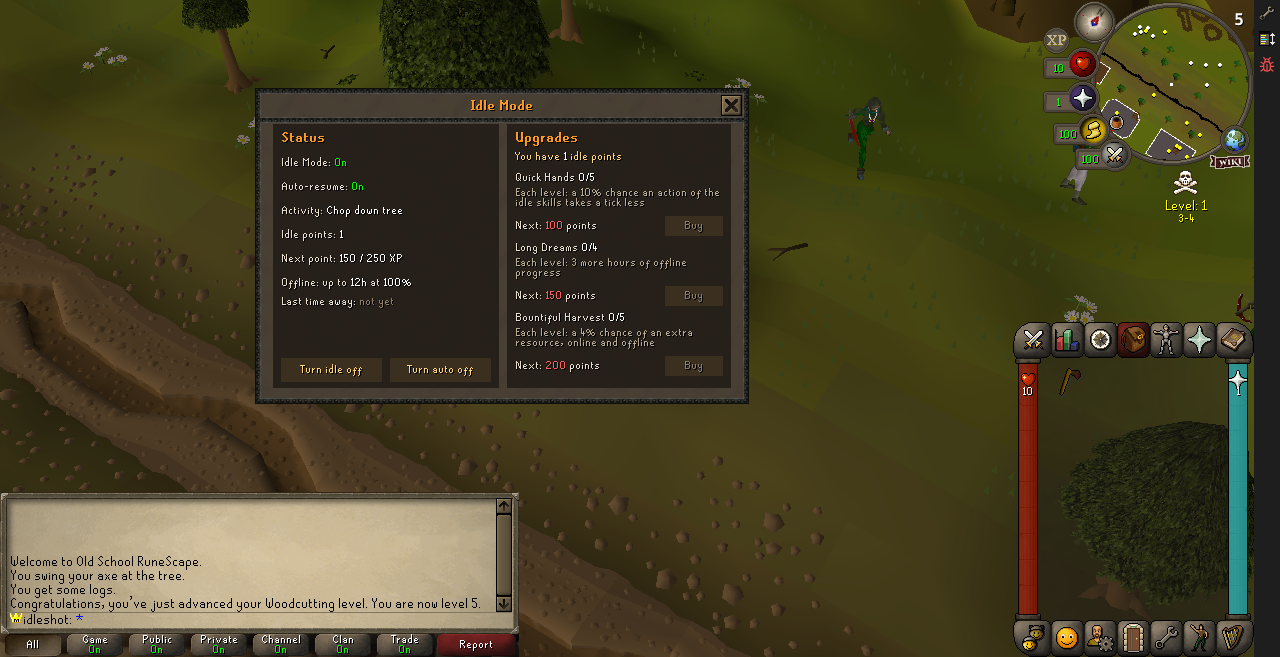
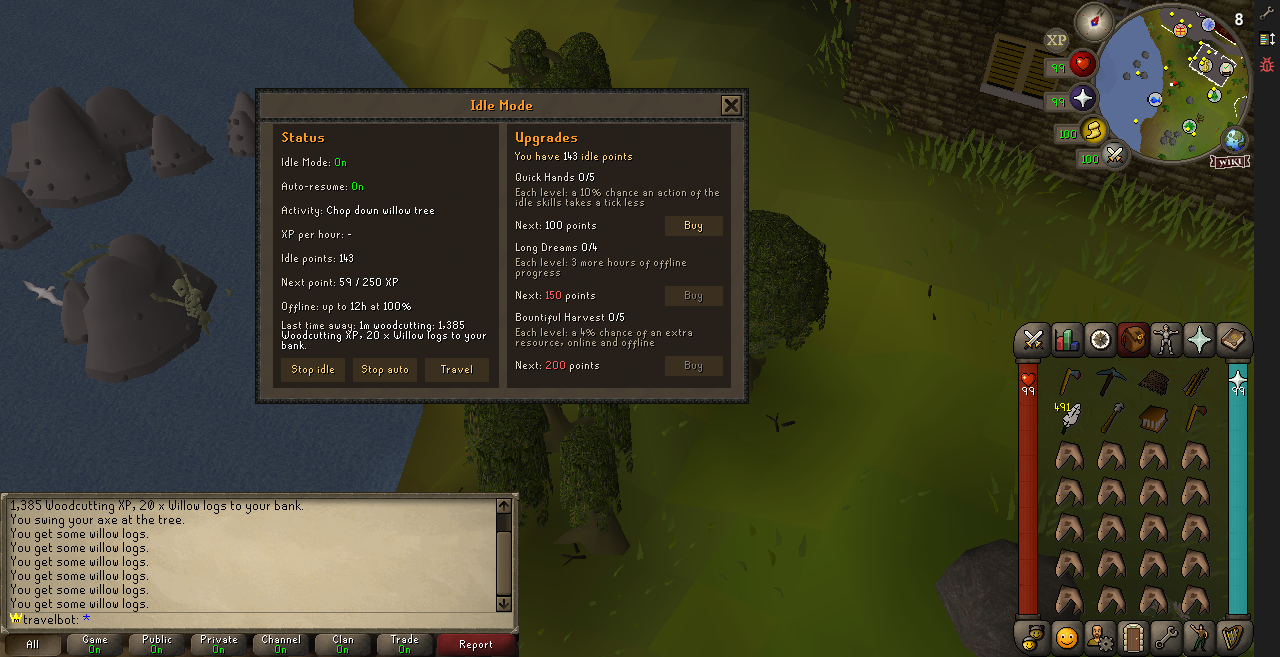
Idle Mode: journal panel, XP per hour, totals and the return screen
The side journal gets an Idle Information section first (Idle Mode,
activity, XP per hour, idle points, time idle), filled from idle:summary.
The Idle screen shows the XP per hour of the session played. Totals of
time worked online, time paid offline, XP and items are kept
(idle-mode:totals). A login that paid time away opens the Idle screen a
few ticks in, or after Play when the welcome screen holds the player.

Playing it showed the eighth status line had the Travel button's
component id: the button moves clear, and a test now checks every
screen's widget ids are distinct.

Claude-Session: https://claude.ai/code/session_018fqrB1SK5m6x8WbXcG8kg4

diff --git a/server/plugins/modes/idle/Screen.IdleMode.js b/server/plugins/modes/idle/Screen.IdleMode.js
@@ -2,7 +2,7 @@
  * The Idle screen (`::idle`): a server-defined interface (docs/agents/interfaces.md), so it needs
  * no client change. On the left, the account's status: Idle Mode and auto-resume (each with a
  * button to switch it), what the character is doing, the idle points and the next one, the offline
- * cap, and what the last time away paid; a third button opens the travel screen. On the right,
+ * cap, and what the last time away paid, with the XP per hour; a third button opens the travel screen. On the right,
  * the upgrades: each one's level, what it
  * does, the next level's price and a Buy button. It redraws while open whenever any of that
  * changes (Common's `changed`), so points tick up as the character works.
@@ -21,12 +21,13 @@ const MAIN_MODAL_UID = (161 << 16) | 16;
 /** The frame's title bar (cache script 227 draws it). */
 const FRAME_TITLE_SCRIPT = 227;
 const TITLE = "Idle Mode";
-const STATUS_LINES = 7;
+const STATUS_LINES = 8;
 /** At most this many upgrades fit; the data's own count sets the layout (Common.init runs first). */
 const MAX_UPGRADE_SLOTS = 4;
 const COMPONENT = {
   ROOT: 0, FRAME: 1, STATUS_BOX: 2, STATUS_TITLE: 3, STATUS_LINE_START: 4,
-  IDLE_BUTTON: 12, IDLE_LABEL: 13, AUTO_BUTTON: 14, AUTO_LABEL: 15, TRAVEL_BUTTON: 11, TRAVEL_LABEL: 19,
+  // STATUS_LINE_START + STATUS_LINES (8) runs to 11: the buttons sit clear of the lines.
+  IDLE_BUTTON: 12, IDLE_LABEL: 13, AUTO_BUTTON: 14, AUTO_LABEL: 15, TRAVEL_BUTTON: 50, TRAVEL_LABEL: 51,
   UPGRADES_BOX: 16, UPGRADES_TITLE: 17, POINTS: 18,
   // Each upgrade slot: its name, description, price, and Buy button and label.
   SLOT_START: 20, SLOT_STRIDE: 5,
@@ -62,8 +63,8 @@ function addStatus(add, root) {
   add(COMPONENT.STATUS_BOX, root, box(x, y, width, height));
   add(COMPONENT.STATUS_TITLE, root, text(x + 8, y + 4, width - 16, 20, { text: "Status", fontId: 496, textColor: 0xff981f, yTextAlignment: 1 }));
   for (let line = 0; line < STATUS_LINES; line++) {
-    // The last line, the time away, has room to wrap.
-    const lineHeight = line === STATUS_LINES - 1 ? 60 : LINE_HEIGHT - 2;
+    // The last line, the time away, has room to wrap above the buttons.
+    const lineHeight = line === STATUS_LINES - 1 ? 36 : LINE_HEIGHT - 2;
     add(COMPONENT.STATUS_LINE_START + line, root, text(x + 8, y + 28 + line * LINE_HEIGHT, width - 16, lineHeight, {
       yTextAlignment: line === STATUS_LINES - 1 ? 0 : 1,
     }));
@@ -125,12 +126,24 @@ function autoLine(player) {
   return col(COLOUR.ON, "On");
 }
 
-function activityLine(player) {
+/** What the character is doing, as plain text, or null when nothing yet. */
+function activityText(player) {
   const fight = player.getAttribute(Common.COMBAT_TARGET_ATTRIBUTE);
-  if (fight) return col(COLOUR.VALUE, `Fighting ${fight.name.toLowerCase()}s`);
+  if (fight) return `Fighting ${fight.name.toLowerCase()}s`;
   const gather = player.getAttribute(Common.GATHER_TARGET_ATTRIBUTE);
-  if (gather) return col(COLOUR.VALUE, `${gather.option} ${gather.name.toLowerCase()}`);
-  return col(COLOUR.DIM, "None yet: press Travel");
+  if (gather) return `${gather.option} ${gather.name.toLowerCase()}`;
+  return null;
+}
+
+function activityLine(player) {
+  const activity = activityText(player);
+  return activity ? col(COLOUR.VALUE, activity) : col(COLOUR.DIM, "None yet: press Travel");
+}
+
+/** XP per hour of the session being played, or "-" when none is long enough to tell. */
+function rateText(player) {
+  const rate = Offline.currentRate(player);
+  return rate ? number(rate.xpPerHour) : "-";
 }
 
 /** What each status line says, top to bottom. */
@@ -142,6 +155,7 @@ function statusLines(player) {
     `Idle Mode: ${idle ? col(COLOUR.ON, "On") : col(COLOUR.OFF, "Off")}`,
     `Auto-resume: ${idle ? autoLine(player) : col(COLOUR.DIM, "needs Idle Mode")}`,
     `Activity: ${activityLine(player)}`,
+    `XP per hour: ${col(COLOUR.VALUE, rateText(player))}`,
     `Idle points: ${col(COLOUR.VALUE, number(Progression.points(player)))}`,
     `Next point: ${col(COLOUR.VALUE, `${number(Progression.progress(player))} / ${number(xpPerPoint)} XP`)}`,
     `Offline: up to ${col(COLOUR.VALUE, `${Progression.capHours(player)}h`)} at ${col(COLOUR.VALUE, `${Math.round(Common.data.offline.efficiency * 100)}%`)}`,
@@ -205,6 +219,58 @@ function switchAuto({ player }) {
   return true;
 }
 
+/** `idle:summary`: the journal tab's Idle Information rows (plain text: the journal escapes it). */
+function journalSummary(request) {
+  const { player } = request;
+  const { workedMs, offlineMs } = Offline.totals(player);
+  request.summary = {
+    idleMode: Common.isIdle(player) ? "On" : "Off",
+    idleActivity: activityText(player) ?? "None yet",
+    idleXpRate: rateText(player),
+    idlePoints: Progression.points(player),
+    idleTime: Offline.formatDuration(workedMs + offlineMs),
+  };
+}
+
+/** Players whose login paid time away, for the screen to open once they are in the game. */
+const returning = new Set();
+/** Of those, the ones the welcome screen holds until they press Play (`gameframe:ready`). */
+const atWelcome = new Set();
+
+/** A login paid time away: show it, once the game frame is up. */
+function returned(player) {
+  if (!Common.data.offline.openScreenOnReturn) return;
+  returning.add(player);
+  const { Task, TaskManager } = Common.core;
+  TaskManager.submit(new (class OpenOnReturnTask extends Task {
+    constructor() { super(Math.max(1, Common.data.offline.openScreenDelayTicks | 0), player, false); }
+    execute() {
+      this.stop();
+      // Behind the welcome screen it waits for Play instead.
+      if (!atWelcome.has(player)) openReturning(player);
+    }
+  })());
+}
+
+function openReturning(player) {
+  if (!returning.delete(player)) return;
+  atWelcome.delete(player);
+  if (player.isRegistered?.() !== false) open(player);
+}
+
+function welcomeShown({ player }) {
+  atWelcome.add(player);
+}
+
+function gameframeReady({ player }) {
+  if (atWelcome.has(player)) openReturning(player);
+}
+
+function forgetReturn({ player }) {
+  returning.delete(player);
+  atWelcome.delete(player);
+}
+
 /** `idle:open`: the Idle button in the journal tab (SideJournalDefaults). */
 function openFromJournal({ player }) {
   open(player);
@@ -242,6 +308,11 @@ module.exports = function attach(api) {
   api.onInterfaceActionButton([uid(COMPONENT.AUTO_BUTTON), uid(COMPONENT.AUTO_LABEL)], switchAuto);
   api.onInterfaceActionButton([uid(COMPONENT.TRAVEL_BUTTON), uid(COMPONENT.TRAVEL_LABEL)], travelButton);
   api.onCustomEvent("idle:open", openFromJournal);
+  api.onCustomEvent("idle:summary", journalSummary);
+  api.onCustomEvent("welcome-screen:shown", welcomeShown);
+  api.onCustomEvent("gameframe:ready", gameframeReady);
+  api.onPlayerLogout(forgetReturn);
+  Offline.onPaid(returned);
   api.onInterfaceActionButton(buyUids().flat(), buyButton);
   Common.onChange(redraw);
 };

diff --git a/server/plugins/modes/idle/Offline.IdleMode.js b/server/plugins/modes/idle/Offline.IdleMode.js
@@ -19,8 +19,45 @@ const AWAY_ATTRIBUTE = "idle-mode:away";
 /** Saved: what the last time away paid, as the login message said it (the Idle screen shows it). */
 const LAST_AWAY_ATTRIBUTE = "idle-mode:last-away";
 
+/**
+ * Saved: what idle play has added up to, for the Idle screen and the journal:
+ * { workedMs (time spent gathering or fighting online), offlineMs (time away paid), xp, items }.
+ */
+const TOTALS_ATTRIBUTE = "idle-mode:totals";
+
 /** player -> the session being measured. */
 const sessions = new Map();
+/** Called with (player, reward) after a login paid time away (the Idle screen opens). */
+const paidListeners = [];
+
+function onPaid(listener) {
+  paidListeners.push(listener);
+}
+
+const sum = (values) => Object.values(values ?? {}).reduce((total, value) => total + (Number(value) || 0), 0);
+
+function totals(player) {
+  return { workedMs: 0, offlineMs: 0, xp: 0, items: 0, ...(player.getAttribute(TOTALS_ATTRIBUTE) ?? {}) };
+}
+
+function addTotals(player, { workedMs = 0, offlineMs = 0, xp = 0, items = 0 }) {
+  const current = totals(player);
+  player.setAttribute(TOTALS_ATTRIBUTE, {
+    workedMs: current.workedMs + workedMs, offlineMs: current.offlineMs + offlineMs,
+    xp: current.xp + xp, items: current.items + items,
+  });
+}
+
+/** The XP per hour of the session being played now, or null when there is none long enough. */
+function currentRate(player, now = Date.now()) {
+  const session = sessions.get(player);
+  const config = Common.data.offline;
+  if (!session) return null;
+  const durationMs = session.lastAt - session.firstAt;
+  const maxGapSeconds = session.maxGapSeconds ?? config.maxGapSeconds;
+  if (durationMs < config.minSampleSeconds * 1000 || now - session.lastAt > maxGapSeconds * 1000) return null;
+  return { activity: session.activity, xpPerHour: ((sum(session.lastXp) - sum(session.firstXp)) / durationMs) * 3600000 };
+}
 
 /**
  * Adds one result to a session, or starts a new one (another activity, or more than the
@@ -106,8 +143,13 @@ function record(player, activity, skills, items, maxGapSeconds) {
   const config = Common.data.offline;
   if (!config.enabled || !Common.isIdle(player)) return;
   const now = Date.now();
-  const session = addResult(sessions.get(player), { activity, items, maxGapSeconds }, now, xpNow(player, skills), config);
+  const previous = sessions.get(player);
+  const previousAt = previous?.lastAt;
+  const previousXp = sum(previous?.lastXp);
+  const session = addResult(previous, { activity, items, maxGapSeconds }, now, xpNow(player, skills), config);
   sessions.set(player, session);
+  // A result that carries the session on: the time since the last one is time worked.
+  if (session === previous) addTotals(player, { workedMs: now - previousAt, xp: Math.max(0, sum(session.lastXp) - previousXp), items: sum(items) });
   // Kept current while playing, so any save carries it: the server's shutdown save (which logs
   // no one out) and the periodic autosave before a crash pay the time away on the next login.
   player.setAttribute(AWAY_ATTRIBUTE, awayFromSession(session, now, config));
@@ -157,12 +199,16 @@ function login({ player }) {
   if (lost > 0) player.sendMessage(`Your bank was full: ${formatNumber(lost)} items were lost.`);
   player.setAttribute(LAST_AWAY_ATTRIBUTE,
     `${formatDuration(reward.elapsedMs)}${capped} ${doing(away.activity)}: ${parts.join(", ") || "nothing"}${lost > 0 ? ` (${formatNumber(lost)} lost, bank full)` : ""}.`);
+  addTotals(player, { offlineMs: reward.paidMs, xp: sum(reward.xp), items: sum(reward.items) });
   Common.changed(player);
+  for (const listener of paidListeners) listener(player, reward);
 }
 
 module.exports = function attach(api) {
   api.persistAttribute(AWAY_ATTRIBUTE, null);
   api.persistAttribute(LAST_AWAY_ATTRIBUTE, "");
+  // No fixed starting value worth comparing: an empty one is filled in by totals().
+  api.persistAttribute(TOTALS_ATTRIBUTE, null);
   api.onCustomEvent("storage:gather", gathered);
   api.onPlayerLogout(logout);
   api.onPlayerLogin(login);
@@ -170,6 +216,10 @@ module.exports = function attach(api) {
 
 module.exports.AWAY_ATTRIBUTE = AWAY_ATTRIBUTE;
 module.exports.LAST_AWAY_ATTRIBUTE = LAST_AWAY_ATTRIBUTE;
+module.exports.TOTALS_ATTRIBUTE = TOTALS_ATTRIBUTE;
+module.exports.totals = totals;
+module.exports.currentRate = currentRate;
+module.exports.onPaid = onPaid;
 module.exports.addResult = addResult;
 module.exports.awayFromSession = awayFromSession;
 module.exports.offlineReward = offlineReward;

diff --git a/server/plugins/interface/sidejournaldefaults/Summary.SideJournalDefaults.js b/server/plugins/interface/sidejournaldefaults/Summary.SideJournalDefaults.js
@@ -76,9 +76,14 @@ function render(player) {
   if (!panel) return;
   const pvp = { player, stats: null };
   const slayer = { player, task: null, points: 0 };
+  // Idle Mode's fork: its rows' values (plugins/modes/idle/Screen.IdleMode.js).
+  const idle = { player, summary: null };
   pluginApi.emitCustomEvent("pvp:stats", pvp);
   pluginApi.emitCustomEvent("slayer:current-task", slayer);
+  pluginApi.emitCustomEvent("idle:summary", idle);
   const values = {
+    idleMode: "Off", idleActivity: "None", idleXpRate: "-", idleTime: "0m",
+    ...idle.summary,
     ...pvp.stats,
     ...wealth(player),
     kdr: RATIO.format(pvp.stats?.kdr ?? 0),

diff --git a/server/plugins/interface/sidejournaldefaults/Layout.SideJournalDefaults.js b/server/plugins/interface/sidejournaldefaults/Layout.SideJournalDefaults.js
@@ -26,6 +26,14 @@ function buttonPositions(commands) {
 }
 const SECTIONS = [
   // Explicit component IDs keep existing rows and headings stable when adding a field.
+  // Idle Mode's fork: its summary first ("idle:summary", plugins/modes/idle/Screen.IdleMode.js).
+  [70, "Idle Information", [
+    [71, "idleMode", "Idle Mode"],
+    [72, "idleActivity", "Activity", 32],
+    [73, "idleXpRate", "XP per hour"],
+    [74, "idlePoints", "Idle points"],
+    [75, "idleTime", "Time idle"],
+  ]],
   [20, "PK Information", [
     [21, "playerKills", "Player Kills"],
     [22, "botKills", "Bot Kills"],

diff --git a/IDLE_ROADMAP.md b/IDLE_ROADMAP.md
@@ -44,12 +44,15 @@ Uma interface própria e sempre à mão, para o jogador nunca precisar digitar c
 
 - [x] **Botão fixo do idle**: o primeiro botão da aba do diário abre a tela idle
 - [ ] **Ajuste visual**: com 4 botões no diário, o rótulo "Commands" perde a última letra
-- [ ] **Painel resumido sempre visível**: atividade atual, XP por hora, pontos e um indicador de
-      pausado/rodando
-- [ ] **Tela ao logar com ganhos offline**: abrir sozinha mostrando o resumo "enquanto você esteve
-      fora", com totais por item
+- [x] **Painel resumido**: seção "Idle Information" no topo da aba do diário, com modo, atividade,
+      XP por hora, pontos e tempo idle (atualiza a cada 2 segundos)
+- [ ] **Painel na tela de jogo** (sobreposto, sem abrir a aba do diário), se o diário não bastar
+- [x] **Tela ao logar com ganhos offline**: abre sozinha depois do Play, com o resumo da última vez
+      fora
 - [ ] **Abas na tela idle**: Status, Melhorias, Viagem, Loja e Estatísticas, numa só janela
-- [ ] **Estatísticas**: XP/hora por skill, itens coletados no total, tempo idle acumulado
+- [x] **Estatísticas, parte 1**: XP por hora da sessão e tempo idle total (online + offline);
+      totais de XP e itens já são guardados (`idle-mode:totals`)
+- [ ] **Estatísticas, parte 2**: uma aba que mostre os totais por skill e por item
 - [ ] **Versão mobile** conferida (o cliente já é responsivo; validar as telas idle no celular)
 
 ## P1 - Loja de Idle Coins

diff --git a/docs/idle-mode.md b/docs/idle-mode.md
@@ -214,6 +214,22 @@ the 190-wide panel.
 
 ![The journal tab's Idle button](images/idle-journal-button.png)
 
+## Totals, the journal panel and the return screen
+
+- **Totals** (`Offline.IdleMode.js`), saved as `idle-mode:totals`
+  `{ workedMs, offlineMs, xp, items }`: each result that carries a session on adds the time since
+  the last one, its XP and its items; a login's time-away payout adds the time paid, XP and items.
+  `Offline.currentRate(player)` is the XP per hour of the session being played (none until it has
+  run `minSampleSeconds`, or once it is older than its gap).
+- **The journal panel**: the side journal's first section, "Idle Information" (Idle Mode,
+  activity, XP per hour, idle points, time idle), filled from `idle:summary` `{ player, summary }`,
+  which the Idle screen answers. It redraws every two seconds like the rest of the journal.
+- **The return screen**: a login that paid time away opens the Idle screen
+  (`"offline"` `openScreenOnReturn`): `openScreenDelayTicks` in, or, behind the welcome screen
+  (`welcome-screen:shown`), when the player presses Play (`gameframe:ready`).
+
+![The journal's Idle Information](images/idle-journal-panel.png)
+
 ## The Idle screen
 
 ![The Idle screen](images/idle-screen.png)

diff --git a/IDLE_GAME.md b/IDLE_GAME.md
@@ -55,7 +55,10 @@ Na primeira vez que uma conta fica idle (conta nova num mundo idle, ou o primeir
 - recebe o **kit inicial**: machado, picareta, rede de pesca, espada e 10 camarões;
 - conta nova num mundo idle começa no **pátio do castelo de Lumbridge**, longe da Wilderness;
 - aparecem **3 linhas de boas-vindas** no chat e a **tela idle abre sozinha**;
-- depois disso, a tela abre pelo botão **Idle** na aba do diário (o ícone de missões).
+- depois disso, a tela abre pelo botão **Idle** na aba do diário (o ícone de missões);
+- a mesma aba mostra no topo a seção **Idle Information**: atividade, XP por hora, pontos e tempo
+  idle;
+- sempre que você volta e o jogo pagou tempo offline, a tela idle abre sozinha com o resumo.
 
 ![Primeiro login de uma conta nova](docs/images/idle-first-login.png)
 
